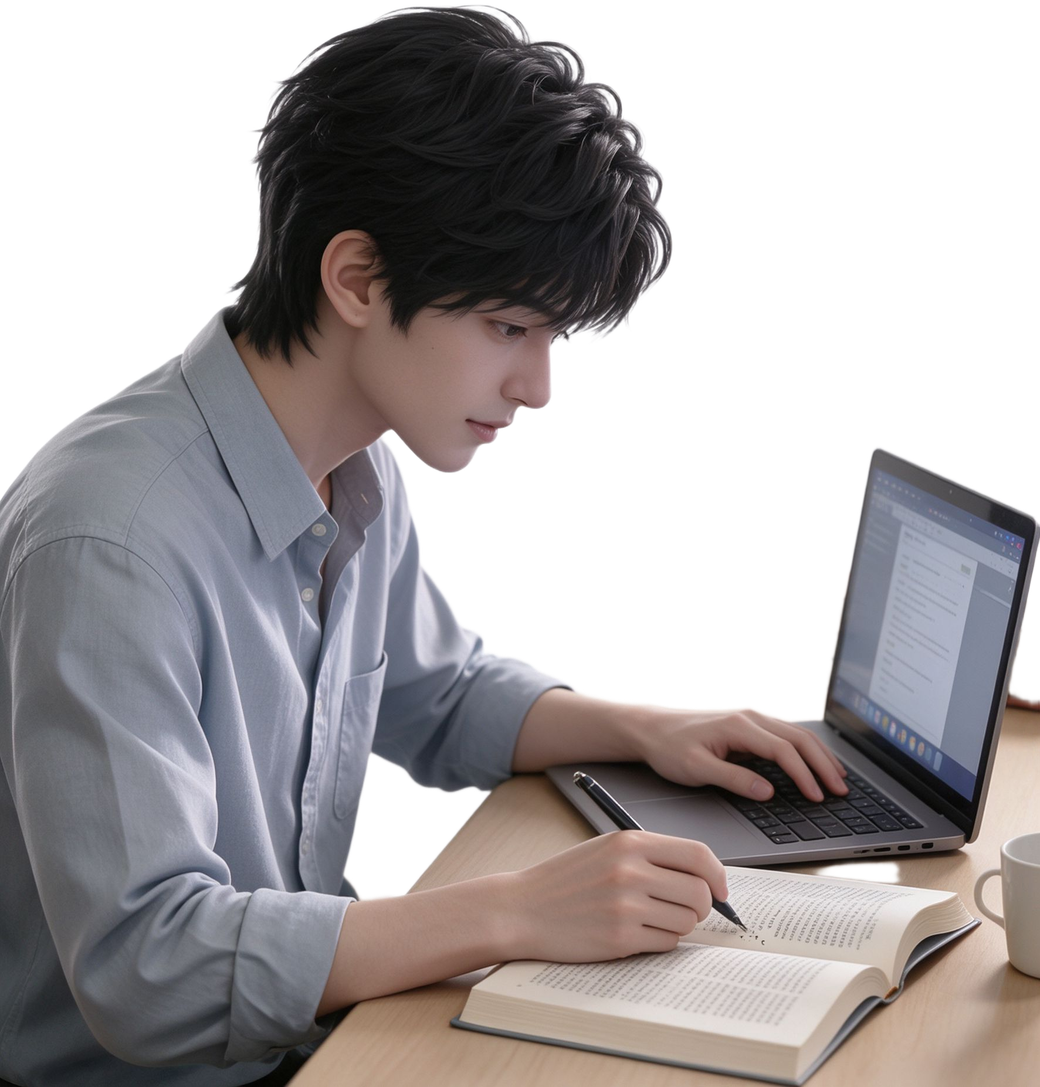
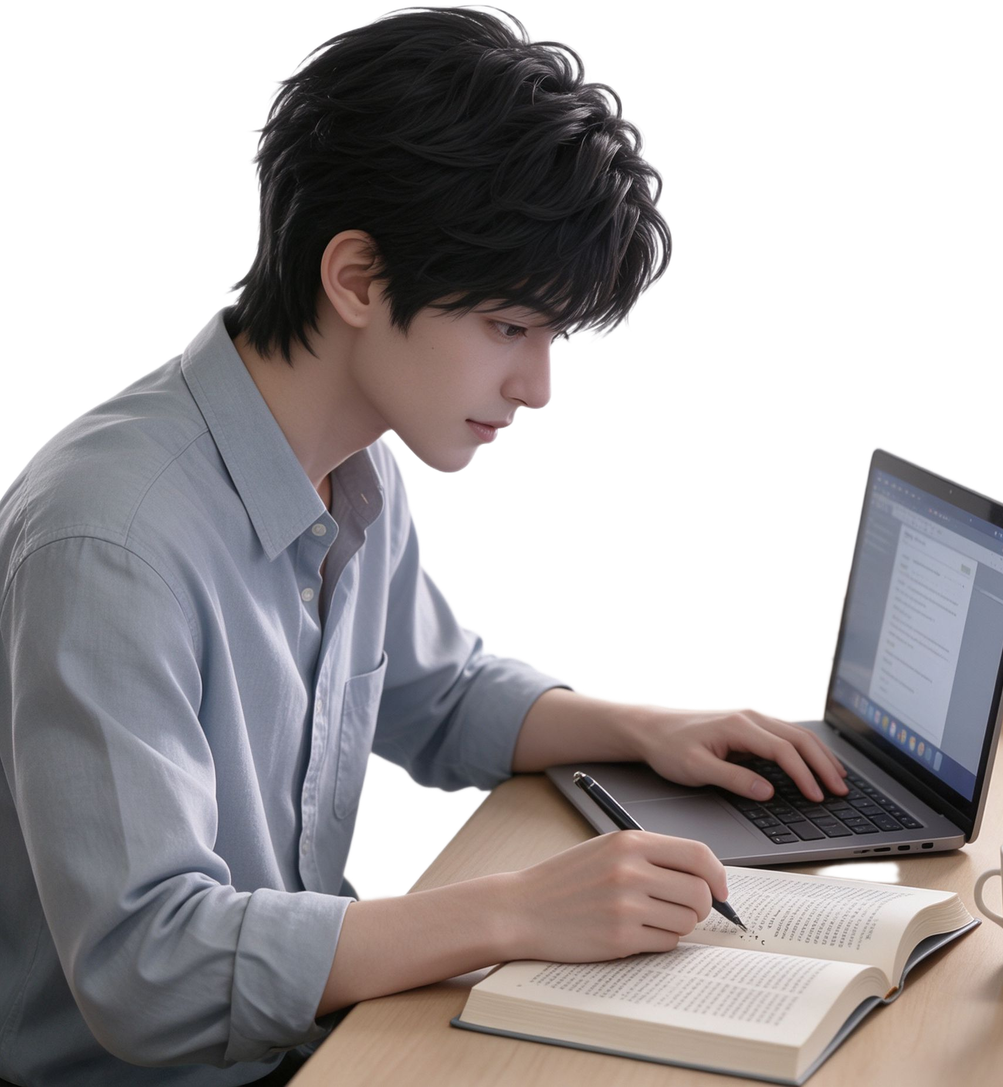
04 笔译插画置顶，口译两照错落下

Changed region(s): [[0.1236, 0.0, 1.0, 1.0], [0.1854, 0.3643, 0.2164, 0.425], [0.0927, 0.3643, 0.1236, 0.3947]]

diff --git a/index.html b/index.html
@@ -603,15 +603,15 @@ section[id]{scroll-margin-top:68px}
 /* ===== 04 兼职译员 ===== */
 .path .path-item--trans{width:min(660px,94%);display:flex;gap:26px;align-items:flex-start;margin-bottom:52px}
 .path-item--trans .pi-wrap{order:1;flex:0 0 44%;min-width:0;padding-top:6px}
-.path .path-item--trans .pi-ph{order:2;flex:1;height:366px;position:relative;aspect-ratio:auto;border:0;background:none;display:block;padding:0}
+.path .path-item--trans .pi-ph{order:2;flex:1;height:432px;position:relative;aspect-ratio:auto;border:0;background:none;display:block;padding:0}
 .path-item--trans .tr-line{font-size:11.6px;line-height:1.75;color:var(--ink-soft);margin-top:11px;max-width:300px}
 .path-item--trans .tr-line b{font-weight:600;color:var(--ink);font-size:11px;letter-spacing:.08em;margin-right:6px}
 .path-item--trans .pi-ph figure{margin:0}
-.path-item--trans .tr-tv{position:absolute;left:0;top:0;width:100%;background:#fff;padding:5px;box-shadow:0 8px 22px rgba(25,26,28,.12);transform:rotate(-.7deg)}
+.path-item--trans .tr-tv{position:absolute;left:17%;top:150px;width:83%;background:#fff;padding:5px;box-shadow:0 8px 22px rgba(25,26,28,.12);transform:rotate(-.7deg)}
 .path-item--trans .tr-tv img{display:block;width:100%;height:auto}
-.path-item--trans .tr-work{position:absolute;left:-3%;top:150px;width:52%}
+.path-item--trans .tr-work{position:absolute;left:-2%;top:0;width:50%}
 .path-item--trans .tr-work img{display:block;width:100%;height:auto}
-.path-item--trans .tr-scene{position:absolute;right:0;top:198px;width:54%;background:#fff;padding:5px;box-shadow:0 6px 18px rgba(25,26,28,.10);transform:rotate(1.2deg)}
+.path-item--trans .tr-scene{position:absolute;right:0;top:302px;width:66%;background:#fff;padding:5px;box-shadow:0 6px 18px rgba(25,26,28,.10);transform:rotate(1.2deg)}
 .path-item--trans .tr-scene img{display:block;width:100%;height:auto}
 
 @media (max-width:559px){
@@ -1109,8 +1109,8 @@ section[id]{scroll-margin-top:68px}
               <p class="tr-line"><b>口译</b>法国文化交流周，在展台前来回翻，后来被深圳卫视的镜头捎进去几秒。</p>
             </div>
             <div class="pi-ph">
-              <figure class="tr-tv"><img src="assets/fr-tv.jpg" alt="深圳卫视《深视新闻》报道画面：法国文化交流周现场"></figure>
               <figure class="tr-work"><img src="assets/translate-cut.png" alt="书桌前做笔译的形象"></figure>
+              <figure class="tr-tv"><img src="assets/fr-tv.jpg" alt="深圳卫视《深视新闻》报道画面：法国文化交流周现场"></figure>
               <figure class="tr-scene"><img src="assets/fr-scene.jpg" alt="法国文化交流周现场"></figure>
             </div>
           </div>
